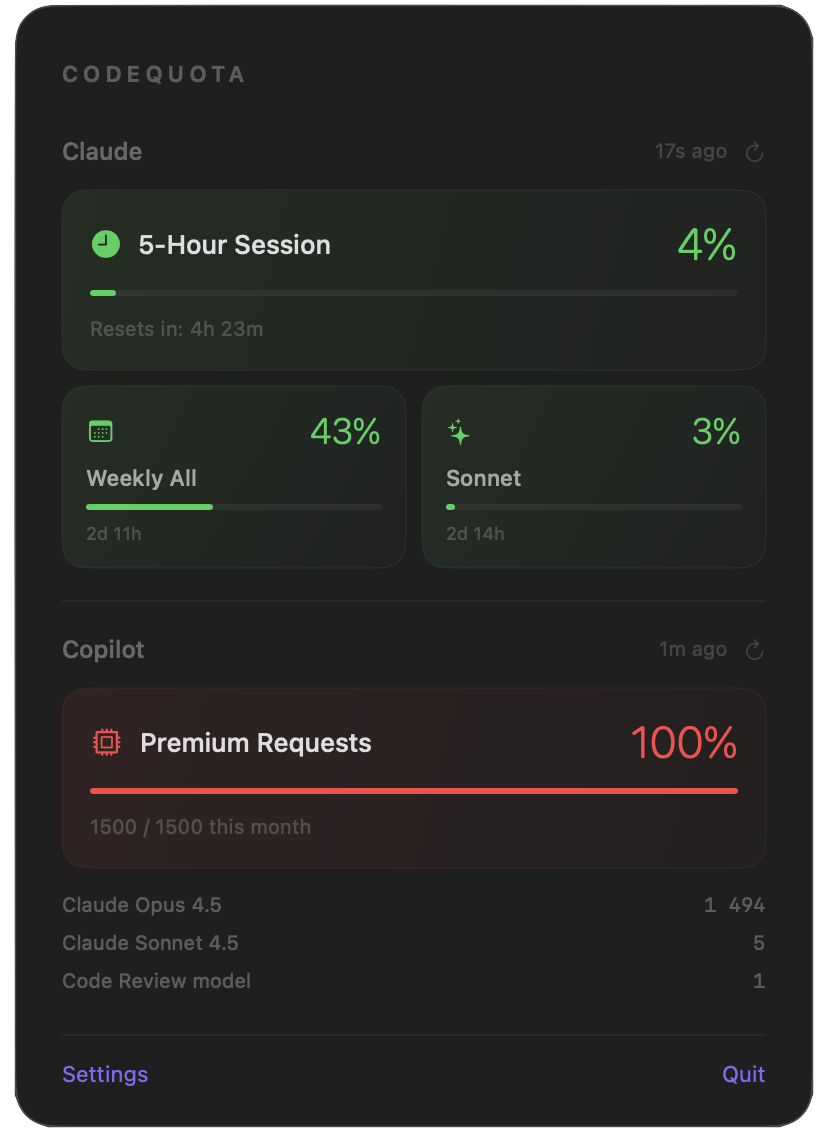
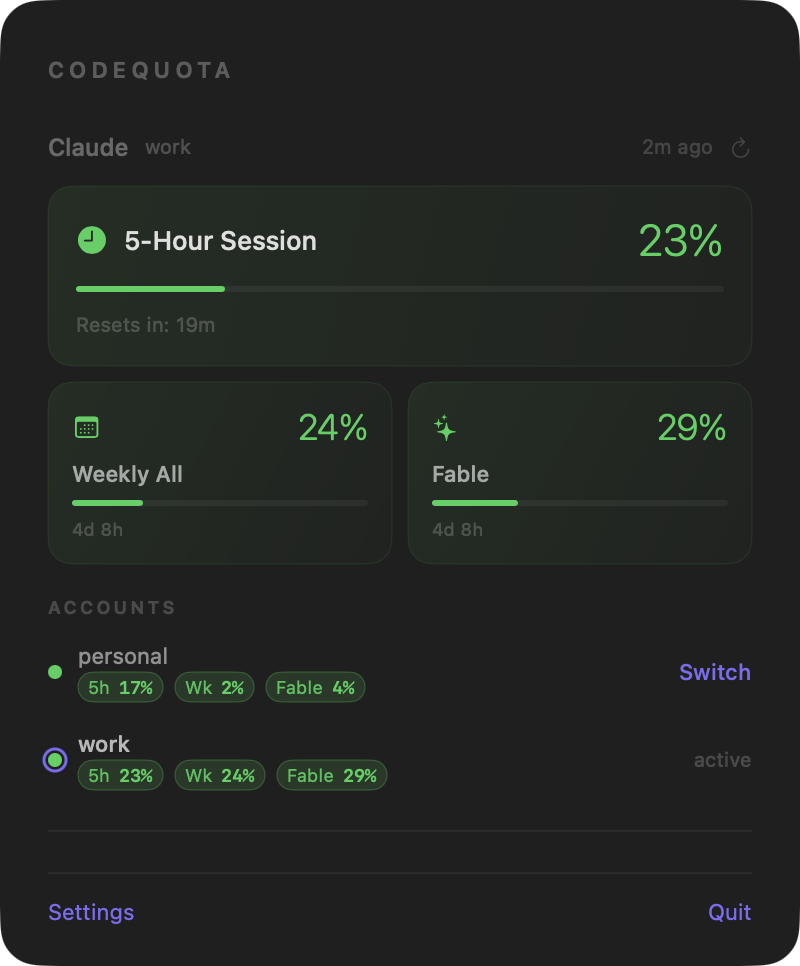
Update README and screenshots for v0.3.0
Screenshots now show the Fable weekly tile and multi-account (cswap) list.
Feature list and menu bar metric docs reflect the Claude Code login reuse,
multi-account switching, and the model-scoped weekly limit replacing Sonnet.

Claude-Session: https://claude.ai/code/session_015Y2xWeJzLy5TTNLqG9PJJ5

diff --git a/README.md b/README.md
@@ -46,11 +46,13 @@ The official dashboards are buried. Checking usage means context-switching, logg
 ### Full Feature List
 
 - **Menu bar usage indicator** — colored status circle + percentage + optional reset countdown, visible at a glance
-- **Claude usage tracking** — monitors 5-hour rolling session, weekly all-models limit, and weekly Sonnet limit
+- **Claude usage tracking** — monitors 5-hour rolling session, weekly all-models limit, and the weekly model-specific limit the API reports (currently Fable)
+- **Reuses your Claude Code login** — if the Claude Code CLI is signed in, CodeQuota picks up that session automatically; no separate sign-in
+- **Multi-account switching** — with [claude-swap](https://github.com/realiti4/claude-swap) installed, see every Claude account's usage in the popover and switch between them in one click
 - **Copilot usage tracking** — tracks monthly premium request usage broken down by model
 - **Configurable display** — choose which metric appears in the menu bar; toggle reset time on or off
 - **Color-coded progress bars** — green (<50%), yellow (50-80%), red (>80%)
-- **OAuth authentication** — Anthropic PKCE + GitHub device flow. No cookies, no session keys, no browser dev tools
+- **OAuth authentication** — Claude Code login, Anthropic PKCE fallback, GitHub device flow. No cookies, no session keys, no browser dev tools
 - **Dark, minimal UI** — borderless panel with rounded corners, consistent dark theme
 
 **Who is this for?**
@@ -122,7 +124,7 @@ In Settings under **Menu Bar**, select which usage metric is displayed in your s
 
 - Claude — 5-Hour Session
 - Claude — Weekly All Models
-- Claude — Weekly Sonnet
+- Claude — Weekly Fable (the model-specific weekly limit; the label follows whatever model the API names)
 - Copilot — Premium Requests
 
 ### Show Reset Time
@@ -153,11 +155,11 @@ No. CodeQuota only reads usage and billing data from the respective APIs. It doe
 
 ### Do I need to copy cookies or session keys?
 
-No. Unlike most Claude usage trackers that require you to dig into browser dev tools and copy session cookies, CodeQuota uses proper OAuth authentication. Just click **Connect** and authorize in your browser — that's it.
+No. Unlike most Claude usage trackers that require you to dig into browser dev tools and copy session cookies, CodeQuota reuses your Claude Code login or uses proper OAuth authentication. Just click **Connect** and authorize in your browser — that's it.
 
 ### Does it work with Claude Code?
 
-Yes. All Claude platforms — Claude Code, Claude.ai, the desktop app, and the mobile app — share the same underlying usage limits. CodeQuota monitors them all.
+Yes. All Claude platforms — Claude Code, Claude.ai, the desktop app, and the mobile app — share the same underlying usage limits. CodeQuota monitors them all, and if Claude Code is installed and signed in, CodeQuota reuses that login.
 
 ### What plans are supported?
 
